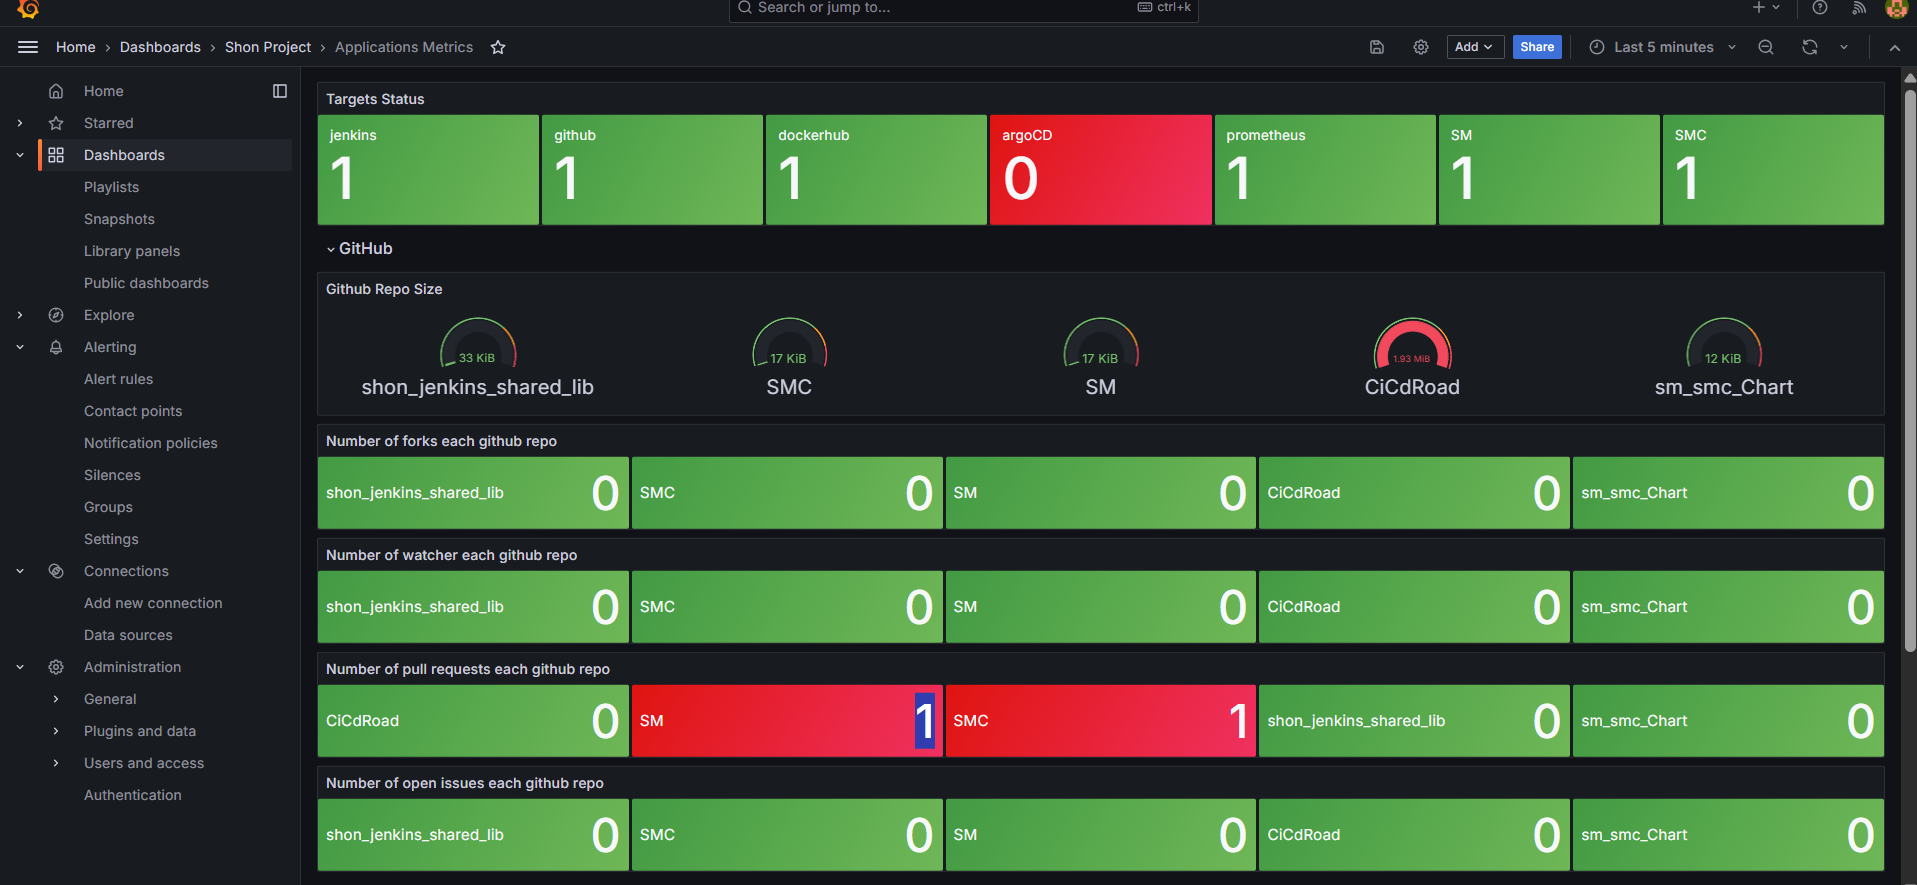
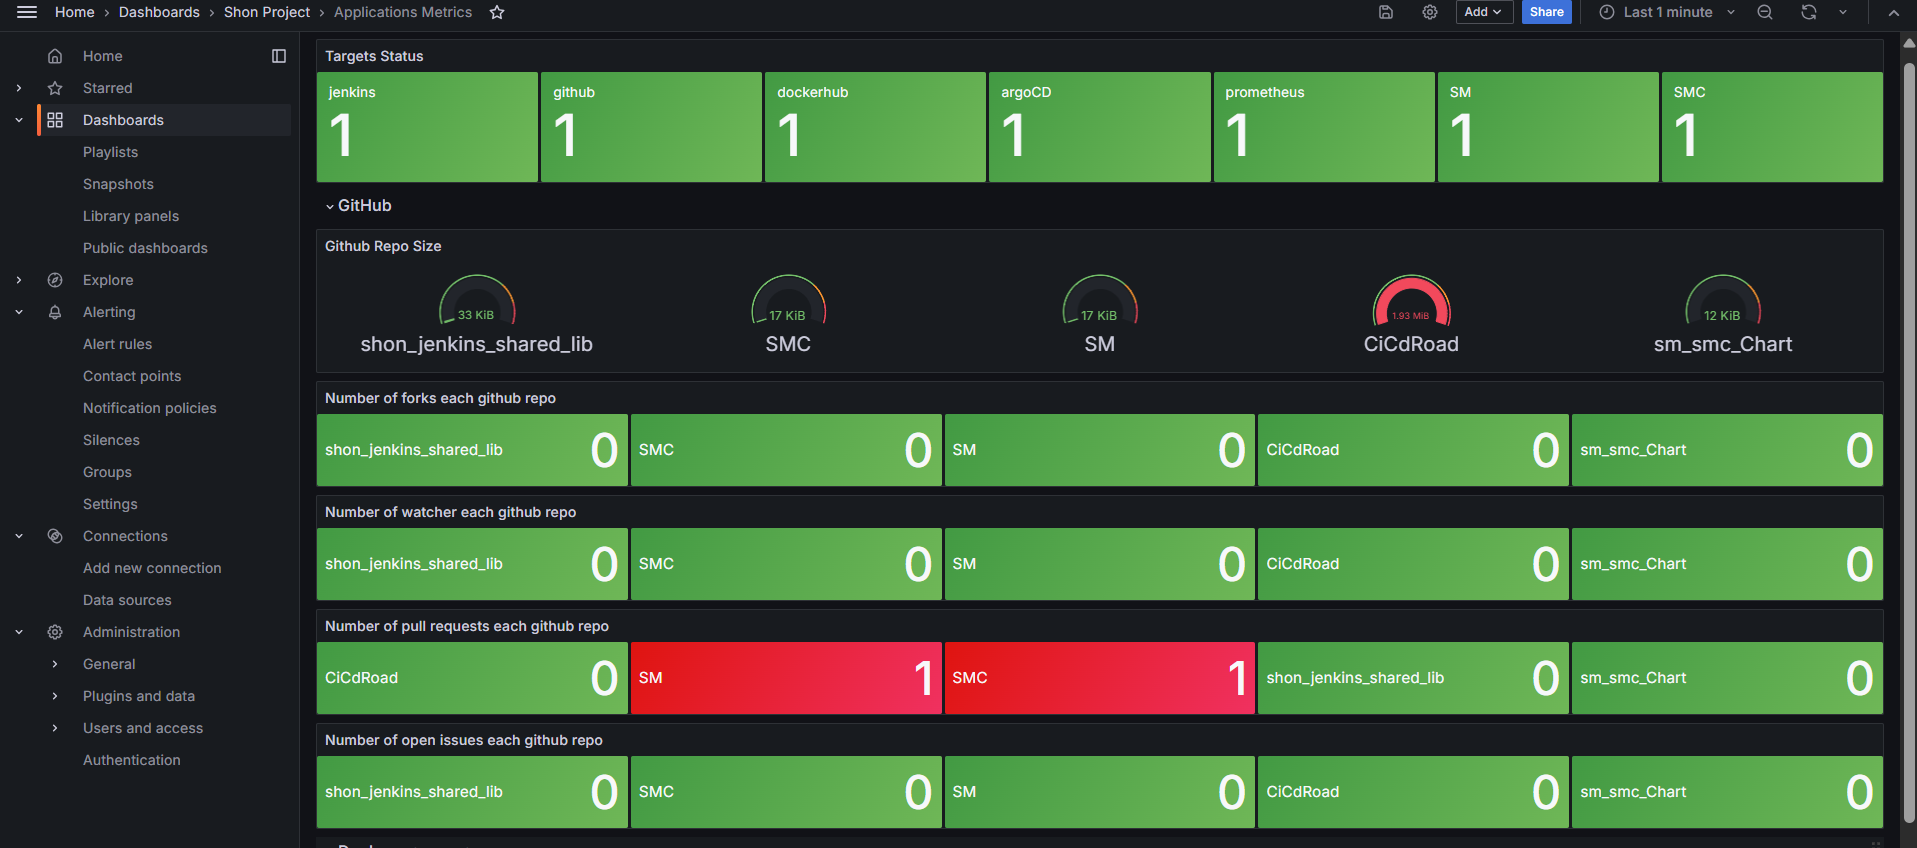
add - argocd dashboard

diff --git a/explanations/grafana/README.md b/explanations/grafana/README.md
@@ -54,5 +54,7 @@ Grafana is the single pane of glass for my entire observability stack, giving me
 ![Grafana logs dashboard Diagram](/images/grafana_logs.png)
 ===
 ![Grafana promtheus dashboard Diagram](/images/grafana_prometheus.png)
+===
+![Grafana argoCD dashboard Diagram](/images/grafana_argocd.png)
 
 ---
